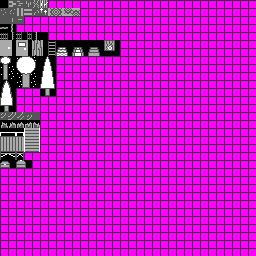
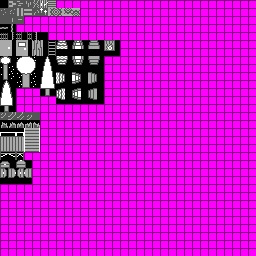
Some changes to make interiors look better
They’ll look good eventually

Changed region(s): [[0.2188, 0.1562, 0.4062, 0.4062], [0.0, 0.6562, 0.125, 0.7188], [0.1875, 0.0, 0.2188, 0.0312]]

diff --git a/src/ca/javajesus/level/tile/Tile.java b/src/ca/javajesus/level/tile/Tile.java
@@ -62,7 +62,7 @@ public abstract class Tile {
 			Colors.fromHex("#636361"), -1), 0xFF291900);
 	public static final Tile CAVEFLOOR = new BaseTile(20, 0, 2, Colors.get(-1, Colors.fromHex("#AEAEAD"),-1, -1),
 			0xFFc3beb7);
-	public static final Tile WOODFLOOR = new BaseTile(21, 2, 0, Colors.get(-1,
+	public static final Tile WOODFLOOR = new BaseTile(21, 6, 0, Colors.get(-1,
 			Colors.fromHex("#6d4300"), 000, -1), 0xFF944500);
 	public static final Tile METALWALL = new BasicSolidTile(22, 5, 0, Colors.get(-1, Colors.fromHex("#a6a6a6"),
 			Colors.fromHex("#939393"), Colors.fromHex("#4b3618")), 0xFFb6b6b6);
